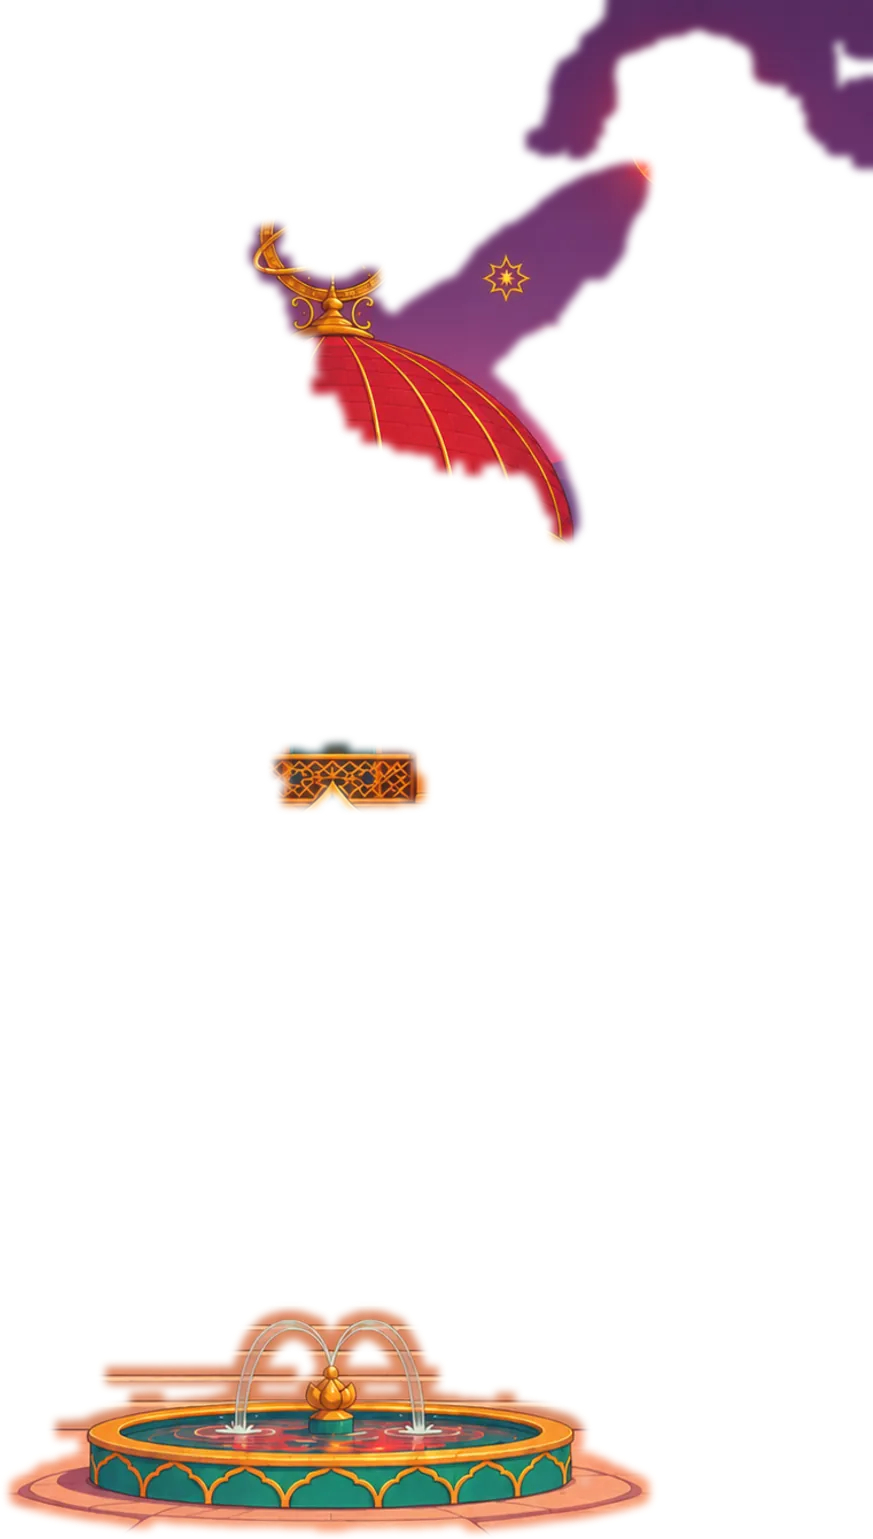
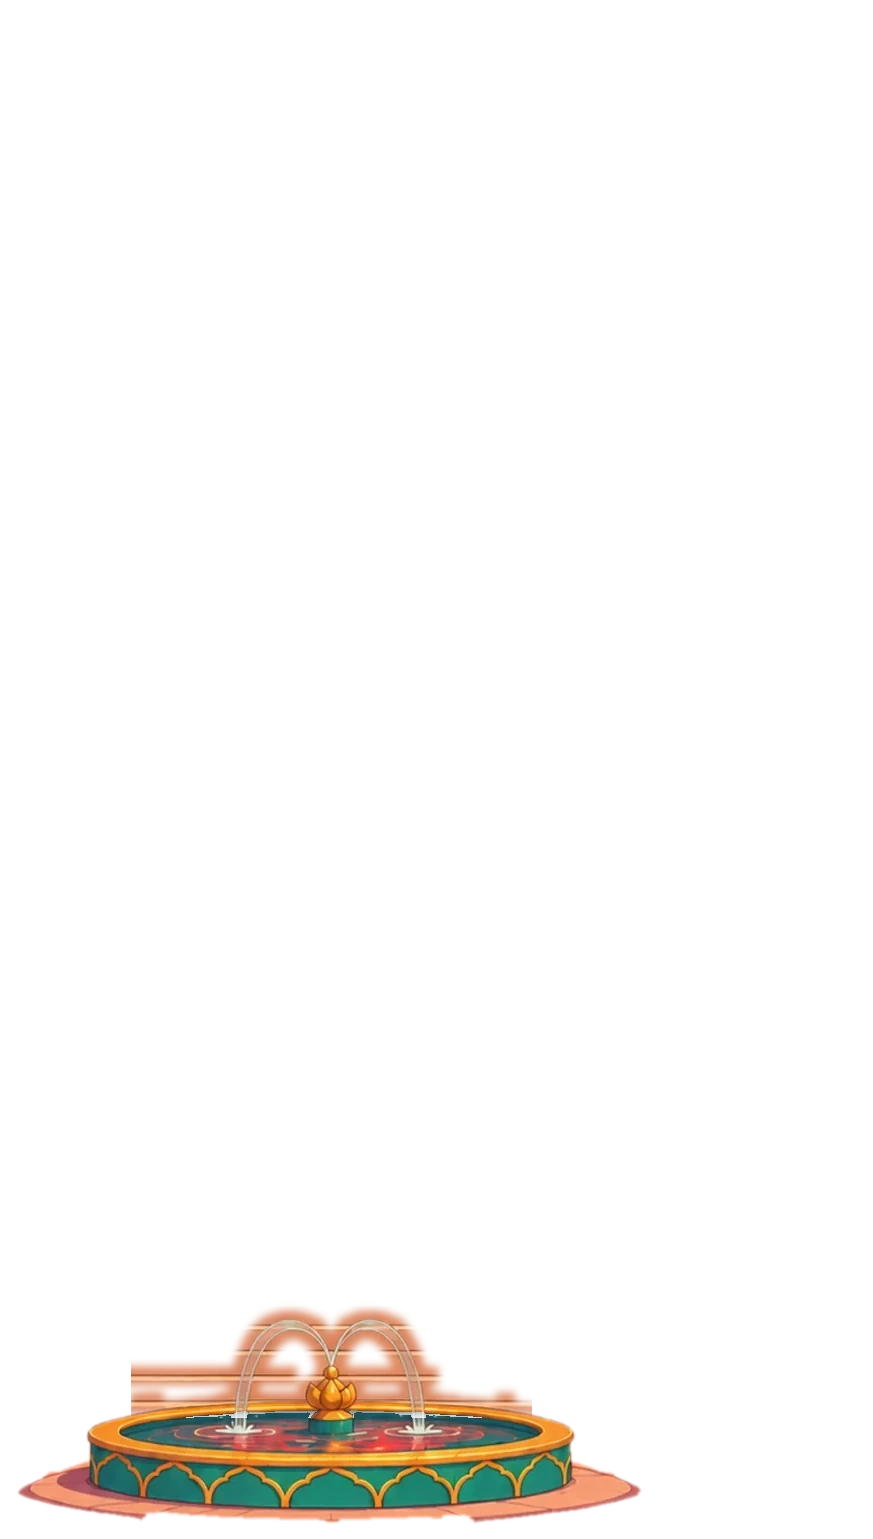
Dome: stairs first, fountain second (with night 1), clean part layers, clearer build prompts
- Build order is now stairs, pool & fountain, terrace, then the rest; part layers keep their
  original paint order (`layer`), and old saves are re-mapped by part id
- Night-one tale and the guardian battle follow the fountain; chapters renumbered
- Stairs and fountain layers re-cut: no halos, no stray bits of other parts, straight stair edges;
  their build-time blueprint layers hold only the gold outline
- Camera no longer over-zooms low parts (the first build looked like nothing happened)
- Painted icons on the stairs and fountain price bubbles; no square glow on the ready pulse
- New orders are never already deliverable from the board
- Tutorial hand sits under the Dome button; the Dome button bobs when a part can be built

Changed region(s): [[0.2784, 0.0, 1.0, 0.3743], [0.0, 0.8733, 0.7423, 0.9981], [0.3093, 0.4678, 0.4948, 0.5302]]

diff --git a/js/config.js b/js/config.js
@@ -87,34 +87,36 @@ window.GAME_CONFIG = {
        emoji     shown on the task button
      Parts are layered in list order (later = on top). */
   domeParts: [
-    { id: "terrace", name: "Terrace", cost: 5, story: "terrace", emoji: "🧱",
-      box: { x: 0, y: 161, w: 360, h: 371 }, focus: { x: 20, y: 430, w: 320, h: 80 }, button: { x: 180, y: 476 },
+    // Build order. `layer` = paint order: the part layers were cut from the stage paintings in the old order
+    // (terrace, stairs, walls, arch, balcony, dome, tiles, towers, pool, garden), so a later layer must stay on top.
+    { id: "stairs", layer: 1, name: "Stone Stairs", cost: 5, story: "stairs", icon: "assets/scenes/parts/icon_stairs.webp?v=3", emoji: "🪜",
+      box: { x: 31, y: 163, w: 298, h: 319 }, focus: { x: 70, y: 420, w: 220, h: 85 }, button: { x: 180, y: 392 }, // above the fountain
+      ruined: "assets/scenes/parts/stairs_ruined.webp?v=3", restored: "assets/scenes/parts/stairs_restored.webp?v=3" },
+    { id: "pool", layer: 8, name: "Pool & Fountain", cost: 8, story: "pool", tale: "tale1", mission: "guard", icon: "assets/scenes/parts/icon_pool.webp?v=4", emoji: "⛲",
+      box: { x: 69, y: 0, w: 291, h: 513 }, focus: { x: 90, y: 450, w: 180, h: 75 }, button: { x: 180, y: 488 },
+      ruined: "assets/scenes/parts/pool_ruined.webp?v=3", restored: "assets/scenes/parts/pool_restored.webp?v=4" },
+    { id: "terrace", layer: 0, name: "Terrace", cost: 12, story: "terrace", emoji: "🧱",
+      box: { x: 0, y: 161, w: 360, h: 371 }, focus: { x: 0, y: 330, w: 360, h: 150 }, button: { x: 300, y: 392 }, // on the right stone wall, clear of the fountain and the Workshop button // frame the stone side walls, stairs and the paved yard: what actually changes
       ruined: "assets/scenes/parts/terrace_ruined.webp", restored: "assets/scenes/parts/terrace_restored.webp" },
-    { id: "stairs", name: "Stone Stairs", cost: 8, story: "stairs", tale: "tale1", mission: "guard", emoji: "🪜",
-      box: { x: 31, y: 163, w: 298, h: 319 }, focus: { x: 70, y: 420, w: 220, h: 85 }, button: { x: 180, y: 440 },
-      ruined: "assets/scenes/parts/stairs_ruined.webp", restored: "assets/scenes/parts/stairs_restored.webp" },
-    { id: "walls", name: "Red Brick Walls", cost: 12, story: "walls", emoji: "🧱",
+    { id: "walls", layer: 2, name: "Red Brick Walls", cost: 18, story: "walls", emoji: "🧱",
       box: { x: 0, y: 34, w: 360, h: 406 }, focus: { x: 25, y: 265, w: 310, h: 185 }, button: { x: 90, y: 360 },
       ruined: "assets/scenes/parts/walls_ruined.webp", restored: "assets/scenes/parts/walls_restored.webp" },
-    { id: "arch", name: "Iwan & Doors", cost: 18, story: "arch", tale: "tale2", mission: "twins", emoji: "🚪",
+    { id: "arch", layer: 3, name: "Iwan & Doors", cost: 24, story: "arch", tale: "tale2", mission: "twins", emoji: "🚪",
       box: { x: 31, y: 163, w: 273, h: 260 }, focus: { x: 120, y: 290, w: 120, h: 160 }, button: { x: 180, y: 330 },
       ruined: "assets/scenes/parts/arch_ruined.webp", restored: "assets/scenes/parts/arch_restored.webp" },
-    { id: "balcony", name: "Balcony", cost: 24, story: "balcony", emoji: "🏛",
+    { id: "balcony", layer: 4, name: "Balcony", cost: 32, story: "balcony", emoji: "🏛",
       box: { x: 22, y: 36, w: 337, h: 404 }, focus: { x: 30, y: 210, w: 300, h: 100 }, button: { x: 180, y: 250 },
       ruined: "assets/scenes/parts/balcony_ruined.webp", restored: "assets/scenes/parts/balcony_restored.webp" },
-    { id: "dome", name: "Red Dome", cost: 32, story: "dome", tale: "tale3", mission: "door", emoji: "🕌",
+    { id: "dome", layer: 5, name: "Red Dome", cost: 42, story: "dome", tale: "tale3", mission: "door", emoji: "🕌",
       box: { x: 0, y: 34, w: 360, h: 425 }, focus: { x: 95, y: 60, w: 170, h: 160 }, button: { x: 180, y: 140 },
       ruined: "assets/scenes/parts/dome_ruined.webp", restored: "assets/scenes/parts/dome_restored.webp" },
-    { id: "tiles", name: "Tilework", cost: 42, story: "tiles", emoji: "💠",
+    { id: "tiles", layer: 6, name: "Tilework", cost: 52, story: "tiles", emoji: "💠",
       box: { x: 0, y: 5, w: 360, h: 502 }, focus: { x: 30, y: 250, w: 300, h: 200 }, button: { x: 270, y: 360 },
       ruined: "assets/scenes/parts/tiles_ruined.webp", restored: "assets/scenes/parts/tiles_restored.webp" },
-    { id: "towers", name: "Towers", cost: 52, story: "towers", emoji: "🗼",
+    { id: "towers", layer: 7, name: "Towers", cost: 64, story: "towers", emoji: "🗼",
       box: { x: 0, y: 0, w: 360, h: 513 }, focus: { x: 20, y: 150, w: 320, h: 150 }, button: { x: 62, y: 210 },
       ruined: "assets/scenes/parts/towers_ruined.webp", restored: "assets/scenes/parts/towers_restored.webp" },
-    { id: "pool", name: "Pool & Fountain", cost: 64, story: "pool", emoji: "⛲",
-      box: { x: 69, y: 0, w: 291, h: 513 }, focus: { x: 90, y: 450, w: 180, h: 75 }, button: { x: 180, y: 488 },
-      ruined: "assets/scenes/parts/pool_ruined.webp", restored: "assets/scenes/parts/pool_restored.webp" },
-    { id: "garden", name: "Garden", cost: 80, story: "garden", emoji: "🌳",
+    { id: "garden", layer: 9, name: "Garden", cost: 80, story: "garden", emoji: "🌳",
       box: { x: 0, y: 15, w: 360, h: 443 }, focus: { x: 0, y: 280, w: 360, h: 220 }, button: { x: 84, y: 430 },
       ruined: "assets/scenes/parts/garden_ruined.webp", restored: "assets/scenes/parts/garden_restored.webp" },
   ],
@@ -182,7 +184,7 @@ window.GAME_CONFIG = {
   missions: {
     twins: { host: "nasrin", maxTries: 14, reward: { energy: 20, stars: 3 } }, // after the Stone Stairs; 6 pairs, 14 tries
     door: { host: "nasrin", extraTurns: 6, reward: { energy: 25, stars: 5 } },  // after the dome; turns allowed = fewest needed + 6
-    guard: { host: "nasrin", reward: { energy: 20, stars: 3 },   // after the stairs: the merge battle with a bronze guardian
+    guard: { host: "nasrin", reward: { energy: 20, stars: 3 },   // after the pool: the merge battle with a bronze guardian
              guardianHp: 12, princeHp: 6,   // its temper (how often/hard it strikes) is GUARD_PHASES in mission.js
              bg: "assets/scenes/battle/battle_bg.webp", bgFallback: "assets/scenes/tale/tale1_2.webp",
              guardianArt: "assets/scenes/battle/guardian.webp", guardianFallback: "assets/scenes/tale/guardian_body_temp.webp",

diff --git a/js/i18n.js b/js/i18n.js
@@ -83,7 +83,7 @@
       tutMerge: "Two of a kind make something better. <b>Drag one pebble onto the other.</b>",
       tutDeliver: "Mehrab needs a <b>Stone</b>. Tap <b>Deliver</b>!",
       tutBack: "Orders pay ⭐ stars. You have enough for the first part. <b>Back to the dome!</b>",
-      tutBuild: "Tap here to <b>build</b> the terrace!",
+      tutBuild: "Tap here to <b>build</b> the stone stairs!",
       tutToBoard: "Back to the workshop: tap <b>Workshop</b>.",
       tutToScene: "Tap here to go back to the dome.",
       tutDone: "Well done! Merge, deliver orders and build the whole Red Dome.",
@@ -150,7 +150,7 @@
       tutMerge: "دو تای یکسان، چیز بهتری میسازند. <b>یک سنگریزه را روی دیگری بکش.</b>",
       tutDeliver: "مهراب یک <b>سنگ</b> میخواهد. <b>تحویل</b> را بزن!",
       tutBack: "سفارشها ⭐ ستاره میدهند. برای اولین بخش کافی است. <b>برگرد به گنبد!</b>",
-      tutBuild: "اینجا بزن تا <b>سکو</b> ساخته شود!",
+      tutBuild: "اینجا بزن تا <b>پلکان سنگی</b> ساخته شود!",
       tutToBoard: "برگرد به کارگاه: روی <b>کارگاه</b> بزن.",
       tutToScene: "اینجا بزن تا به گنبد برگردی.",
       tutDone: "آفرین! آیتمها را ترکیب کن، سفارش تحویل بده و کل گنبد سرخ را بساز.",
@@ -197,43 +197,44 @@
         "نور مریخ است که در نقشه گیر افتاده. دو چیز یکسان را درست کنارش ترکیب کن تا بشکند.",
       ],
     },
-    terrace: { chapter: "فصل ۱", title: "سنگ نخست", lines: [
+    terrace: { chapter: "فصل ۳", title: "سنگ نخست", lines: [
 
     ] },
-    stairs: { chapter: "فصل ۲", title: "پلههای سنگی", lines: [
-      "مادرم این قصه را روی همین کوه برایم میگفت. آن موقع اینجا فقط باد بود.",
-      "حالا یه گنبد داره.",
-      "…بنشین. نوبت من است.",
-    ] },
-    walls: { chapter: "فصل ۳", title: "دیوارها", lines: [
+    stairs: { chapter: "فصل ۱", title: "پلههای سنگی", lines: [
+
 
     ] },
-    arch: { chapter: "فصل ۴", title: "طاق بزرگ", lines: [
+    walls: { chapter: "فصل ۴", title: "دیوارها", lines: [
+
+    ] },
+    arch: { chapter: "فصل ۵", title: "طاق بزرگ", lines: [
       "این طاق را ببین؛ هر سنگش جفتی دارد که به آن تکیه داده.",
       "اگه یکیشون نباشه، طاق میریزه.",
       "راز طلسمهای قصهی ما هم همین بود. بنشین.",
     ] },
-    balcony: { chapter: "فصل ۵", title: "گلنار باغبان", lines: [
+    balcony: { chapter: "فصل ۶", title: "گلنار باغبان", lines: [
       "سلام! من گلنارم، باغبونِ ده پایین.",
       "خوش اومدی، گلنار. این باغ با دست تو جون میگیره.",
       "دورتادور گنبد گل سرخ میکارم.",
     ] },
-    dome: { chapter: "فصل ۶", title: "حکیم کوهستان", lines: [
+    dome: { chapter: "فصل ۷", title: "حکیم کوهستان", lines: [
       "سلام، معمار. من حکیم این کوهم؛ سی سال است از اینجا ستارهها را میشمارم.",
       "پس اسطرلاب کار شما بود. جای گنبد رو درست نشونم داد.",
       "من فقط ستاره را نشان دادم. ساختنش کار تو بود.",
       "شما هم بنشینید. این بخش قصه را حتماً باید بشنوید.",
     ] },
-    tiles: { chapter: "فصل ۷", title: "کاشیهای سرخ", lines: [
+    tiles: { chapter: "فصل ۸", title: "کاشیهای سرخ", lines: [
 
     ] },
-    towers: { chapter: "فصل ۸", title: "برجها", lines: [
+    towers: { chapter: "فصل ۹", title: "برجها", lines: [
       "از بالای برج، راهی که شاه از آن میآید پیداست.",
       "نگرانی؟",
       "نه. فقط میخواهم ببینم کی میرسد.",
     ] },
-    pool: { chapter: "فصل ۹", title: "دو گنبد", lines: [
-
+    pool: { chapter: "فصل ۲", title: "دو گنبد", lines: [
+      "مادرم این قصه را روی همین کوه برایم میگفت. آن موقع اینجا فقط باد بود.",
+      "حالا یه گنبد داره.",
+      "…بنشین. نوبت من است.",
     ] },
     garden: { chapter: "فصل ۱۰", title: "گنبد سرخ", lines: [
       "انارها گل دادن! زودتر از همیشه.",

diff --git a/js/story.js b/js/story.js
@@ -36,7 +36,7 @@ window.STORY = {
   },
 
   terrace: {
-    chapter: "Chapter 1",
+    chapter: "Chapter 3",
     title: "The First Stone",
     cast: ["shideh", "mehrab"],
     lines: [
@@ -45,18 +45,17 @@ window.STORY = {
   },
 
   stairs: {
-    chapter: "Chapter 2",
+    chapter: "Chapter 1",
     title: "Stone Stairs",
     cast: ["shideh", "nasrin"],
     lines: [
-      { who: "nasrin", text: "My mother told me this tale on this very mountain. Back then there was nothing here but wind." },
-      { who: "shideh", side: "left", text: "Now it has a dome." },
-      { who: "nasrin", text: "...Sit down. It's my turn." },
+
+
     ],
   },
 
   walls: {
-    chapter: "Chapter 3",
+    chapter: "Chapter 4",
     title: "The Walls",
     cast: ["shideh", "nasrin"],
     lines: [
@@ -65,7 +64,7 @@ window.STORY = {
   },
 
   arch: {
-    chapter: "Chapter 4",
+    chapter: "Chapter 5",
     title: "The Great Arch",
     cast: ["shideh", "nasrin"],
     lines: [
@@ -76,7 +75,7 @@ window.STORY = {
   },
 
   balcony: {
-    chapter: "Chapter 5",
+    chapter: "Chapter 6",
     title: "The Gardener",
     cast: ["shideh", "golnar"],
     lines: [
@@ -87,7 +86,7 @@ window.STORY = {
   },
 
   dome: {
-    chapter: "Chapter 6",
+    chapter: "Chapter 7",
     title: "The Sage of the Hills",
     cast: ["shideh", "sage"],
     lines: [
@@ -99,7 +98,7 @@ window.STORY = {
   },
 
   tiles: {
-    chapter: "Chapter 7",
+    chapter: "Chapter 8",
     title: "Crimson Tiles",
     cast: ["shideh", "mehrab"],
     lines: [
@@ -108,7 +107,7 @@ window.STORY = {
   },
 
   towers: {
-    chapter: "Chapter 8",
+    chapter: "Chapter 9",
     title: "The Towers",
     cast: ["shideh", "nasrin"],
     lines: [
@@ -119,11 +118,13 @@ window.STORY = {
   },
 
   pool: {
-    chapter: "Chapter 9",
+    chapter: "Chapter 2",
     title: "Two Domes",
     cast: ["shideh", "nasrin"],
     lines: [
-
+      { who: "nasrin", text: "My mother told me this tale on this very mountain. Back then there was nothing here but wind." },
+      { who: "shideh", side: "left", text: "Now it has a dome." },
+      { who: "nasrin", text: "...Sit down. It's my turn." },
     ],
   },
 

diff --git a/js/scene.js b/js/scene.js
@@ -145,7 +145,7 @@
         const el = document.createElement("div");
         el.className = "spart";
         el.dataset.part = i;
-        Object.assign(el.style, { left: p.box.x + "px", top: p.box.y + "px", width: p.box.w + "px", height: p.box.h + "px", zIndex: i + 1 });
+        Object.assign(el.style, { left: p.box.x + "px", top: p.box.y + "px", width: p.box.w + "px", height: p.box.h + "px", zIndex: (p.layer ?? i) + 1 });
         el.innerHTML = `<div class="layer ruined"></div><div class="layer restored"></div>`;
         partsLayer.appendChild(el);
         this.partEls.push(el);
@@ -302,7 +302,7 @@
         if (done[i]) cls += " gone";
         else if (i === next) {
           cls += stars >= p.cost ? " ready" : " need";
-          html = `<span class="t-ic">${p.emoji || "🔨"}</span><span class="t-cost">⭐${p.cost}</span>`;
+          html = `<span class="t-ic">${p.icon ? Art.html(p.icon, p.emoji || "🔨", "t-art") : p.emoji || "🔨"}</span><span class="t-cost">⭐${p.cost}</span>`;
         } else {
           cls += " gone"; // only the next part's task is shown, like a to-do list
         }
@@ -332,8 +332,10 @@
       const FOCUS_Y = 0.34; // where the part should sit on screen (above portraits + dialogue)
       const cx = box.x + box.w / 2, cy = box.y + box.h / 2;
       let s = Math.min((vw * 0.8) / box.w, (vh * 0.36) / box.h);
-      // Low parts need extra zoom so the camera can centre them without showing past the world's edge.
-      s = Math.max(s, ((1 - FOCUS_Y) * vh) / Math.max(1, H - cy));
+      // Low parts would need a big zoom to sit at FOCUS_Y without showing past the world's edge; that zoom
+      // filled the screen with plain floor (the terrace build looked like nothing happened), so cap it and let
+      // a low part sit lower on screen instead.
+      s = Math.max(s, Math.min(base * 1.3, ((1 - FOCUS_Y) * vh) / Math.max(1, H - cy)));
       s = Math.max(base * 1.15, Math.min(base * maxZoom, s));
       let tx = vw / 2 - cx * s, ty = vh * FOCUS_Y - cy * s;
       tx = Math.min(0, Math.max(vw - W * s, tx));

diff --git a/index.html b/index.html
@@ -13,7 +13,7 @@
   <link rel="preconnect" href="https://fonts.googleapis.com">
   <link rel="preconnect" href="https://fonts.gstatic.com" crossorigin>
   <link href="https://fonts.googleapis.com/css2?family=Marcellus&family=Nunito:wght@600;700;800;900&family=Vazirmatn:wght@400;700;800&display=swap" rel="stylesheet">
-  <link rel="stylesheet" href="css/style.css?v=57">
+  <link rel="stylesheet" href="css/style.css?v=67">
   <link rel="stylesheet" href="css/skin.css?v=11">
 </head>
 <body>
@@ -68,20 +68,20 @@
 
   <!-- Editable content -->
   <script src="js/chains.js?v=11"></script>
-  <script src="js/story.js?v=44"></script>
-  <script src="js/config.js?v=50"></script>
-  <script src="js/i18n.js?v=48"></script>
+  <script src="js/story.js?v=47"></script>
+  <script src="js/config.js?v=66"></script>
+  <script src="js/i18n.js?v=52"></script>
   <!-- Engine -->
-  <script src="js/util.js?v=33"></script>
+  <script src="js/util.js?v=34"></script>
   <script src="js/sound.js?v=44"></script>
-  <script src="js/state.js?v=39"></script>
+  <script src="js/state.js?v=41"></script>
   <script src="js/board.js?v=11"></script>
-  <script src="js/orders.js?v=39"></script>
-  <script src="js/scene.js?v=39"></script>
+  <script src="js/orders.js?v=40"></script>
+  <script src="js/scene.js?v=44"></script>
   <script src="js/dialogue.js?v=11"></script>
   <script src="js/ui.js?v=13"></script>
   <script src="js/debug.js?v=13"></script>
-  <script src="js/tutorial.js?v=39"></script>
+  <script src="js/tutorial.js?v=41"></script>
   <script src="js/daily.js?v=22"></script>
   <script src="js/onboard.js?v=29"></script>
   <script src="js/mission.js?v=51"></script>

diff --git a/js/state.js b/js/state.js
@@ -3,6 +3,8 @@
 (function () {
   const SAVE_KEY = "reddome_save_v1";
   const VERSION = 1;
+  // the build order before the pool moved to the front (saves without `domeOrder` use it)
+  const OLD_DOME_ORDER = ["terrace", "stairs", "walls", "arch", "balcony", "dome", "tiles", "towers", "pool", "garden"];
   const cfg = () => window.GAME_CONFIG;
 
   function cellFromLegend(def) {
@@ -51,6 +53,7 @@
         orderSeq: 0,
         ordersDone: 0,
         dome: cfg().domeParts.map(() => false),
+        domeOrder: cfg().domeParts.map((p) => p.id),
         seenIntro: false,
         ads: { day: "", count: 0 },
       };
@@ -94,8 +97,12 @@
     sanitize() {
       const d = this.d;
       d.board = d.board.map(validCell);
-      const parts = cfg().domeParts.length;
-      d.dome = Array.from({ length: parts }, (_, i) => !!(d.dome && d.dome[i]));
+      const ids = cfg().domeParts.map((p) => p.id);
+      // Saves from before the build order changed (stairs, then pool) list the parts in the old order: re-map them by id.
+      const order = Array.isArray(d.domeOrder) ? d.domeOrder : OLD_DOME_ORDER;
+      const old = d.dome || [];
+      d.dome = ids.map((id) => { const k = order.indexOf(id); return k >= 0 && !!old[k]; });
+      d.domeOrder = ids;
       d.orders = (d.orders || []).map((o) =>
         o && Array.isArray(o.items) && Number.isFinite(o.stars) && window.CHARACTERS[o.who] &&
         o.items.every((it) => U.item(it.chain, it.level)) ? o : null

diff --git a/js/tutorial.js b/js/tutorial.js
@@ -136,7 +136,9 @@
         const low = cy > window.innerHeight * 0.55 && a.width > a.height * 1.6;
         this.hand.textContent = low ? "👇" : "👆";
         this.hand.classList.toggle("down", low);
-        this.hand.style.cssText = low ? `left:${cx}px;top:${a.top - 50}px` : `left:${cx}px;top:${cy}px`;
+        // a button at the very top (the Dome button) gets the hand just under it, so its label stays readable
+        const top = !low && cy < window.innerHeight * 0.18;
+        this.hand.style.cssText = low ? `left:${cx}px;top:${a.top - 50}px` : `left:${cx}px;top:${top ? a.bottom + 2 : cy}px`;
         this._handAbove = low;
       }
       if (this.tip._html !== text) { this.tip.innerHTML = text; this.tip._html = text; }
@@ -145,7 +147,7 @@
       const below = cy < vh * 0.55;
       const left = Math.max(12, Math.min(window.innerWidth - w - 12, cx - w / 2));
       this.tip.style.cssText = `width:${w}px;left:${left}px;` +
-        (below ? `top:${a.bottom + 54}px` : `bottom:${vh - a.top + (this._handAbove ? 62 : 20)}px`);
+        (below ? `top:${a.bottom + 58}px` : `bottom:${vh - a.top + (this._handAbove ? 62 : 20)}px`);
       if (this._last !== id) { this._last = id; this.tip.classList.remove("pop"); void this.tip.offsetWidth; this.tip.classList.add("pop"); }
     },
 

diff --git a/css/style.css b/css/style.css
@@ -1834,3 +1834,13 @@ html.ui-art #mission .bt-bar i {
 html.ui-art #mission .bt-bar span { border-radius: 7px; box-shadow: inset 0 1px 0 rgba(255, 255, 255, .4), inset 0 -2px 2px rgba(0, 0, 0, .25); }
 html.ui-art #mission .bt-bar.p span { background: url("../assets/ui/progress_fill.webp") center / 100% 100%; }
 html.ui-art #mission .bt-bar.g span { background: linear-gradient(180deg, #ffe9a0, #e0a83a 50%, #a8681a); }
+
+
+/* ---------- dome task bubble: painted part icon, and a ready-pulse with no square glow (the art bubble has no border-radius) ---------- */
+.task .t-ic .t-art { display: block; width: auto; height: 19px; max-width: 34px; object-fit: contain; filter: drop-shadow(0 1px 1px rgba(60, 20, 10, .35)); }
+.ui-art .task.ready { animation: taskready-art 1.2s ease-in-out infinite; }
+@keyframes taskready-art { 50% { transform: translate(-50%, -50%) scale(1.12); } }
+
+/* ---------- Dome button: when the next part can be built, it bobs (with its "!" badge) ---------- */
+.back-btn.notify { animation: back-call 1.6s ease-in-out infinite; }
+@keyframes back-call { 0%, 55%, 100% { transform: translateY(0); } 65% { transform: translateY(-5px); } 75% { transform: translateY(0); } 85% { transform: translateY(-3px); } }

diff --git a/js/orders.js b/js/orders.js
@@ -41,7 +41,15 @@
       for (let s = 0; s < n; s++) if (!o[s]) o[s] = this.generate(s);
     },
 
+    /* A new order should be something to make, not something already lying on the board
+       (a fresh game opened with an order ready to deliver): re-roll up to a few times. */
     generate(slot) {
+      let o = null;
+      for (let k = 0; k < 12; k++) { o = this.roll(slot); if (!this.find(o)) break; }
+      return o;
+    },
+
+    roll(slot) {
       const cfg = oc();
       const busy = State.d.orders.filter((o, j) => o && j !== slot).map((o) => o.who);
       let givers = Object.keys(cfg.givers).filter((w) => !busy.includes(w) && CHARACTERS[w]);

diff --git a/js/util.js b/js/util.js
@@ -93,7 +93,7 @@
       intro.forEach((w) => C[w] && out.push(C[w].portrait));
       (G.scene.residents || []).forEach((r) => C[r.who] && C[r.who].body && out.push(C[r.who].body + "neutral.webp"));
       // 2. parts already built, and the next one
-      G.domeParts.forEach((p, i) => { if (done[i] || i === next) out.push(p.restored); });
+      G.domeParts.forEach((p, i) => { if (done[i] || i === next) out.push(p.restored); if (p.icon) out.push(p.icon); });
       // 3. the merge board
       out.push(G.talisman.icon);
       Object.values(window.CHAINS).forEach((c) => {
